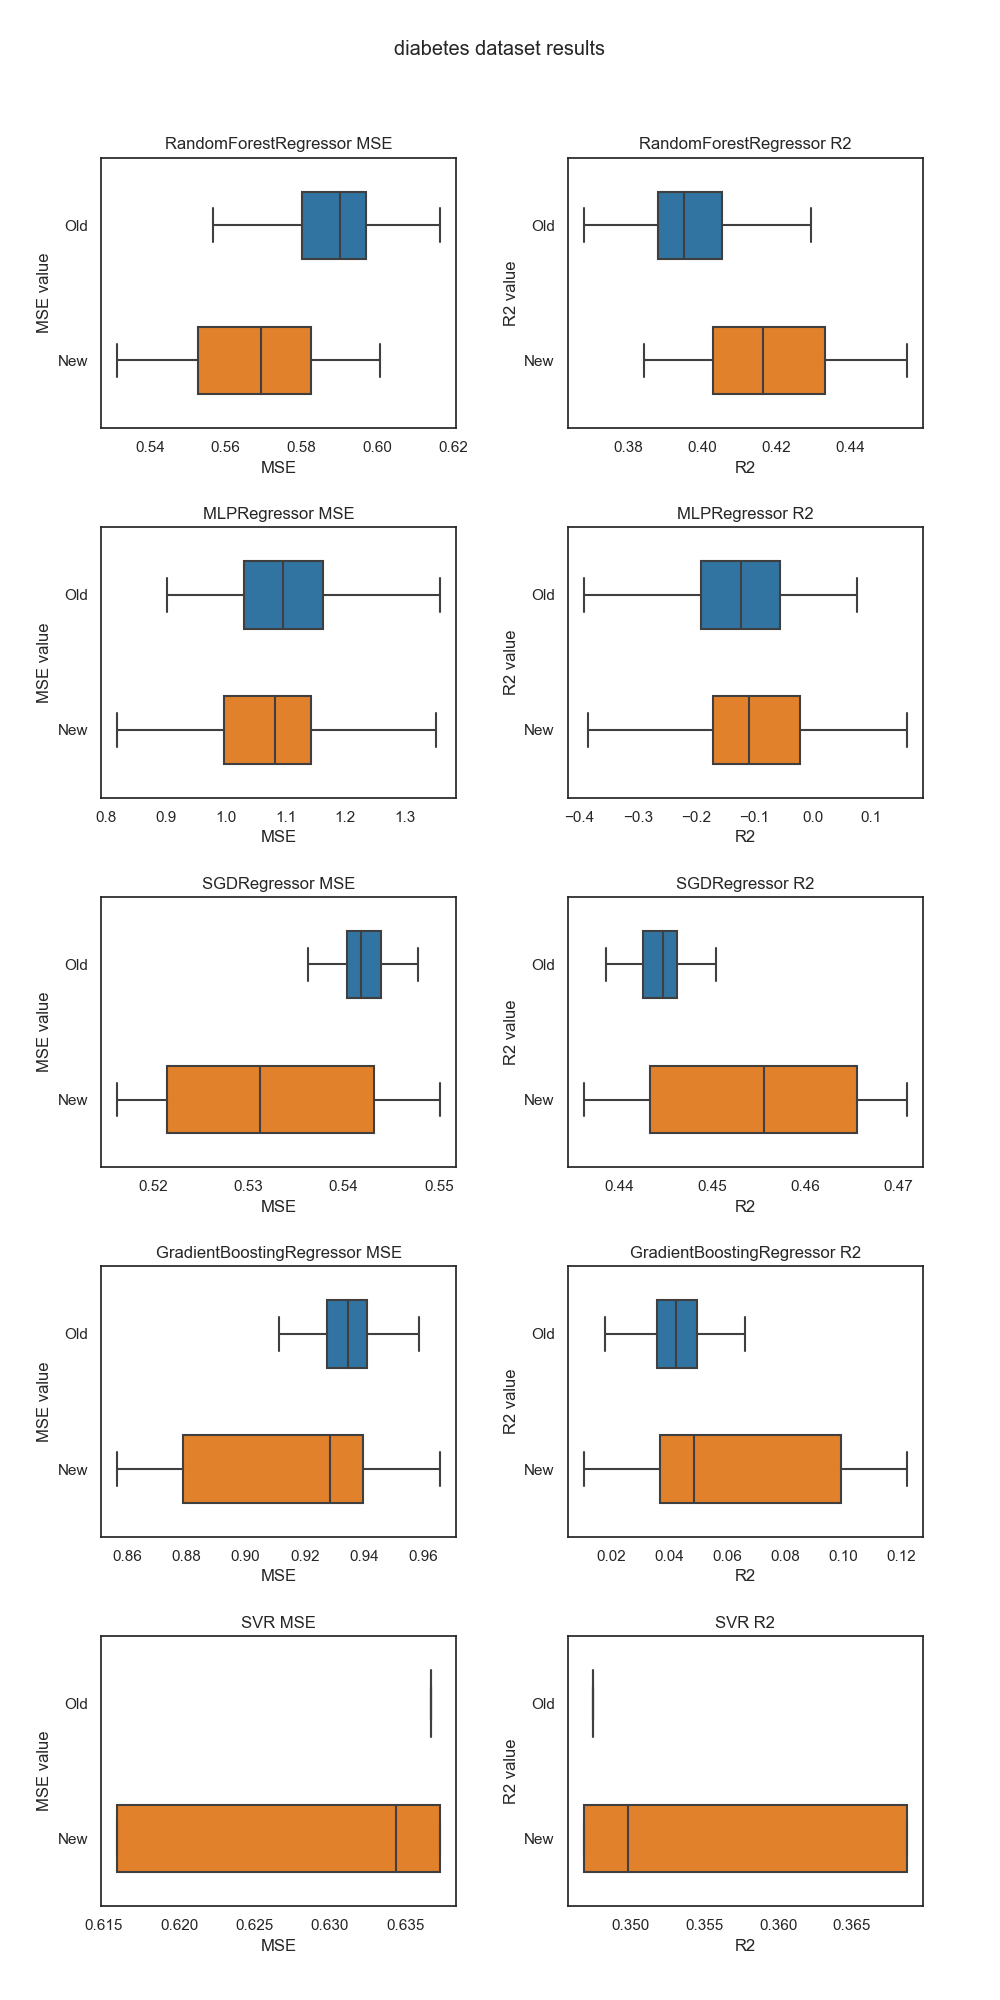
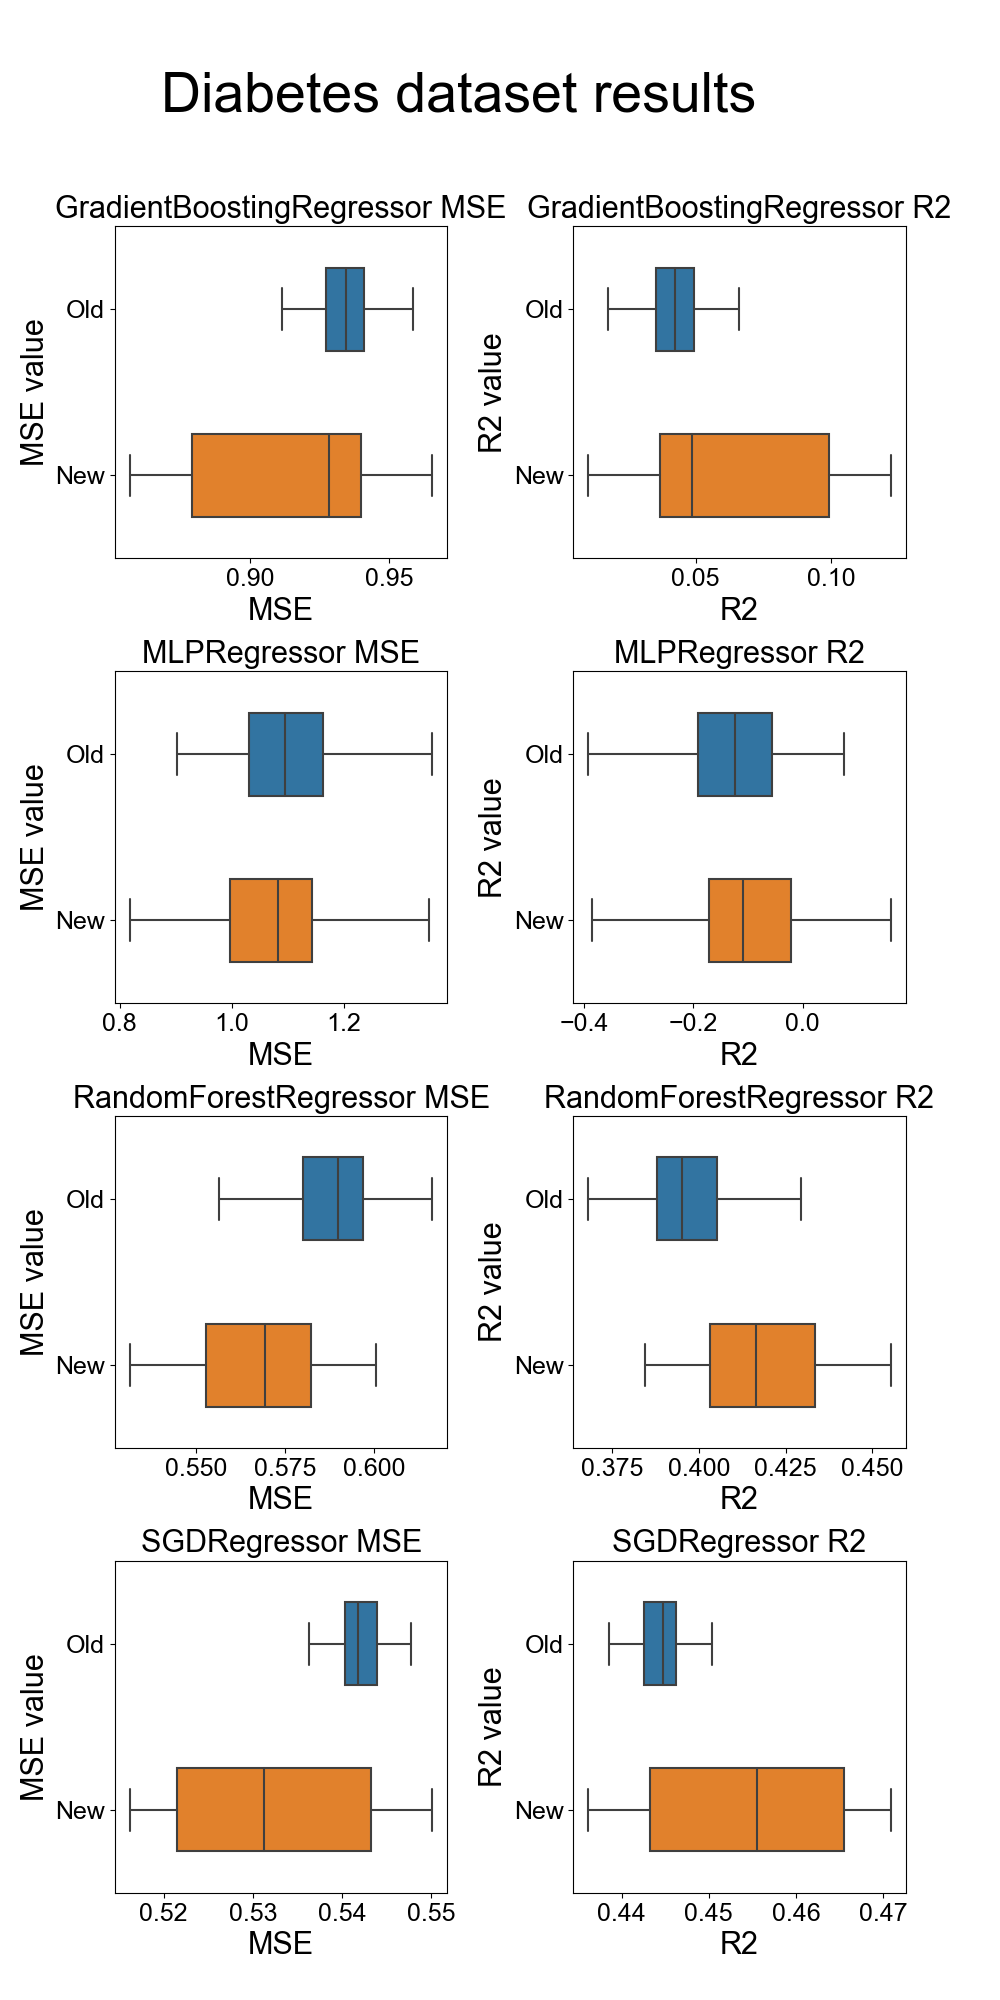
updatePlots
updatePlots

diff --git a/makeplots.py b/makeplots.py
@@ -5,30 +5,39 @@ import seaborn as sns
 
 def make_boxplots(tests, save_path):
     mses = pd.DataFrame(columns = tests.keys())
-    maes = pd.DataFrame(columns = tests.keys())
+    # maes = pd.DataFrame(columns = tests.keys())
     r2s = pd.DataFrame(columns = tests.keys())
     new_mses = pd.DataFrame(columns = tests.keys())
-    new_maes = pd.DataFrame(columns = tests.keys())
+    # new_maes = pd.DataFrame(columns = tests.keys())
     new_r2s = pd.DataFrame(columns = tests.keys())
 
     for key in tests.keys():
         mses[key] = tests[key]["MSE"]
-        maes[key] = tests[key]["MAE"]
+        # maes[key] = tests[key]["MAE"]
         r2s[key] = tests[key]["R2"]
         new_mses[key] = tests[key]["NEW_MSE"]
-        new_maes[key] = tests[key]["NEW_MAE"]
+        # new_maes[key] = tests[key]["NEW_MAE"]
         new_r2s[key] = tests[key]["NEW_R2"]
 
     NO_MODELS = len(tests.keys())
     model_names = [i for i in tests.keys()]
-
+    
+    filter(lambda name: name != 'SVR', model_names)
+    
     fig, axs = plt.subplots(NO_MODELS, 2, figsize=(10, 20))
-    fig.suptitle(f'{save_path} dataset results')
+    # Change title font size
+    plt.rc('figure', titlesize=40)
 
-    # add padding
-    fig.tight_layout(pad=4.0)
+    fig.suptitle(f'{save_path} dataset results'.capitalize(), x=0.5, y=0.965)
 
-    # plot mse and r2
+    fig.tight_layout(pad=6.0)
+
+    title_font_size = 22
+    label_font_size = 22
+
+    for ax in axs:
+        ax[0].tick_params(axis='both', which='major', labelsize=18)
+        ax[1].tick_params(axis='both', which='major', labelsize=18)
 
     for i in range(NO_MODELS):
 
@@ -40,11 +49,10 @@ def make_boxplots(tests, save_path):
             "Model" : np.repeat(model_names[i], mses.shape[0] + new_mses.shape[0])
         })
 
-        sns.boxplot(x="MSE", y="Data", data=old_new_mse, ax=axs[i, 0], orient="h", width=0.5)
-        # add label for model name
-        axs[i, 0].set_title(model_names[i] + ' MSE')
-        axs[i, 0].set(ylabel='MSE value')
-        # set mse y range between 0 and 62000
+        b = sns.boxplot(x="MSE", y="Data", data=old_new_mse, ax=axs[i, 0], orient="h", width=0.5)
+        b.axes.set_title(model_names[i] + ' MSE',fontsize=title_font_size)
+        b.set_xlabel('MSE', fontsize=label_font_size)
+        b.set_ylabel('MSE value', fontsize=label_font_size)
 
 
         old_new_r2 = pd.DataFrame({
@@ -53,11 +61,27 @@ def make_boxplots(tests, save_path):
             "Model" : np.repeat(model_names[i], r2s.shape[0] + new_r2s.shape[0])
         })
 
-        sns.boxplot(x="R2", y="Data", data=old_new_r2, ax=axs[i, 1], orient="h", width=0.5)
-
-        # add label for model name
-        axs[i, 1].set_title(model_names[i] + ' R2')
-        axs[i, 1].set(ylabel='R2 value')
+        b = sns.boxplot(x="R2", y="Data", data=old_new_r2, ax=axs[i, 1], orient="h", width=0.5)
+        b.axes.set_title(model_names[i] + ' R2',fontsize=title_font_size)
+        b.set_xlabel('R2', fontsize=label_font_size)
+        b.set_ylabel('R2 value', fontsize=label_font_size)
 
     # save plot
     plt.savefig(f"plots/{save_path}.png")
+
+
+def generate_plot_from_csv(path, name):
+    print('Here')
+    models = ['GradientBoostingRegressor', 'MLPRegressor', 'RandomForestRegressor', 'SGDRegressor']
+    tests = dict()
+    for model_name in models:
+        tests[model_name] = pd.read_csv(f"{path}/{name}/{model_name}.csv")
+    make_boxplots(tests, name)
+    return
+
+if __name__ == "__main__":
+    generate_plot_from_csv("results", 'diabetes')
+    generate_plot_from_csv("results", 'insurance')
+    generate_plot_from_csv("results", 'wine')
+    generate_plot_from_csv("results", 'university')
+
